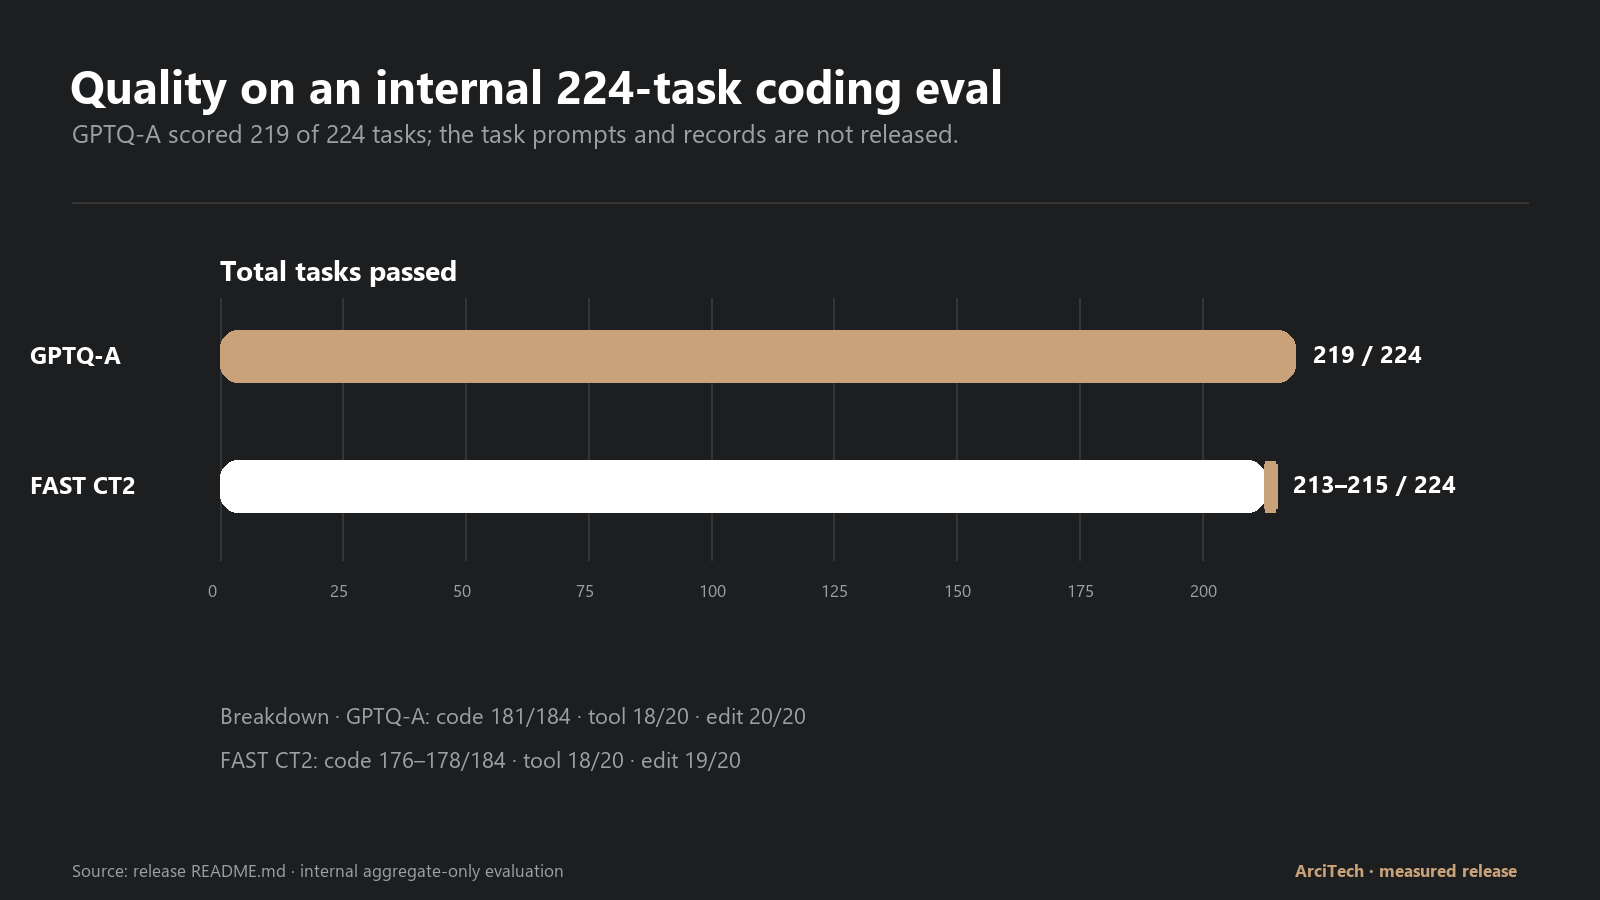
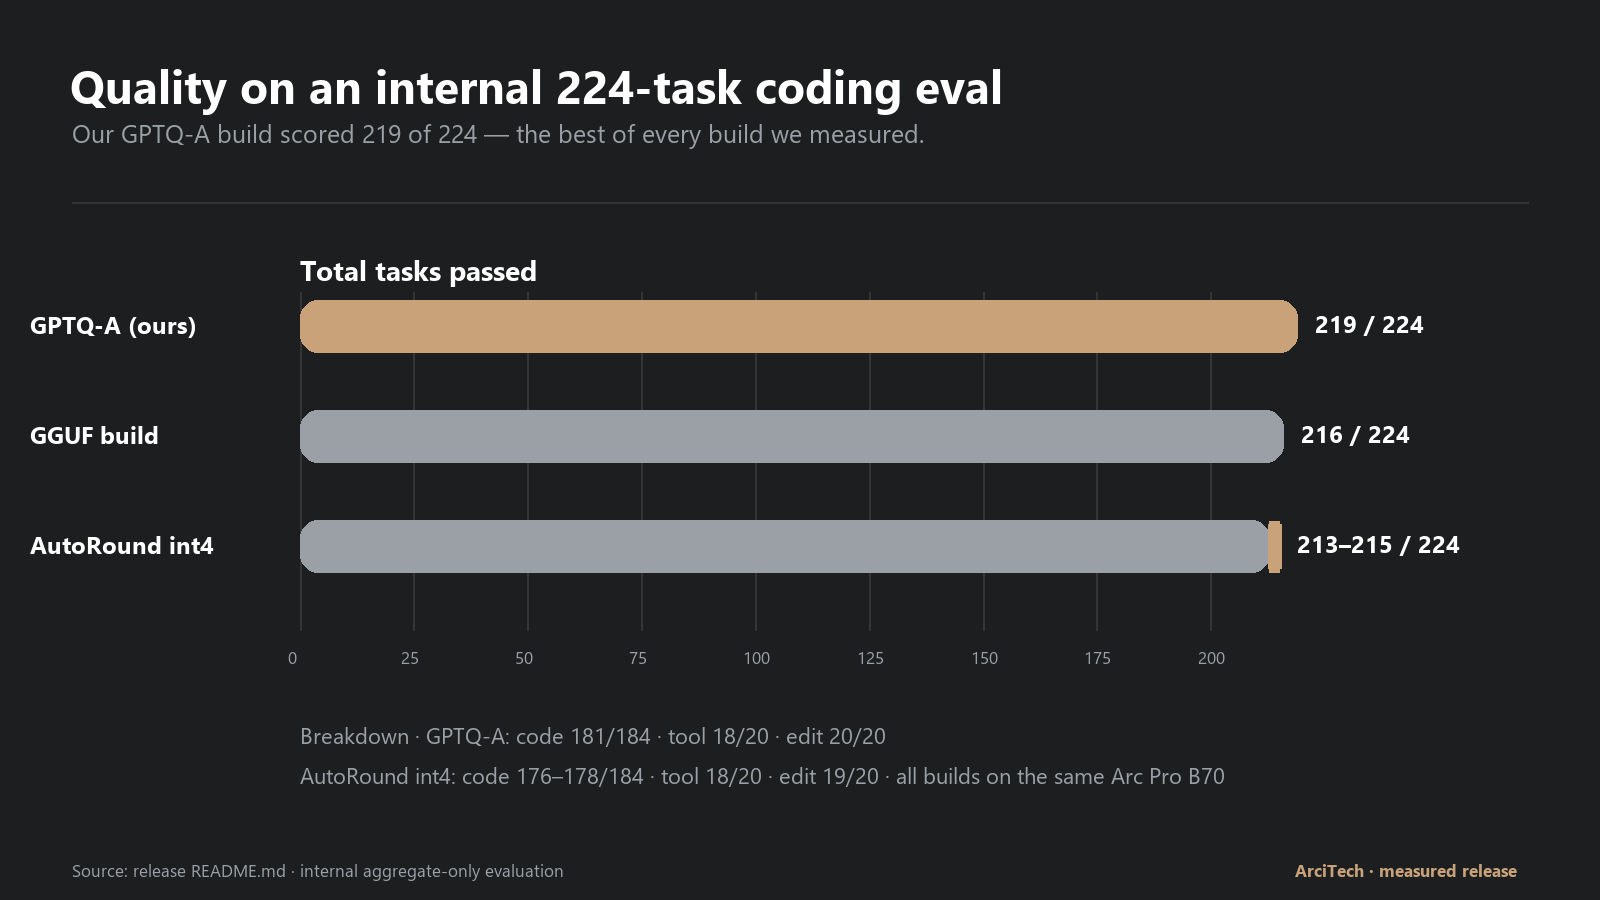
Lead with what we built: fast and best quality
The quality chart compares all three builds; hero banners lead with our results.

diff --git a/README.md b/README.md
@@ -7,22 +7,56 @@
 <picture><source media="(prefers-color-scheme: dark)" srcset="assets/arcitech-logo-white.png"><img src="assets/arcitech-logo-black.png" alt="ArciTech logo"></picture>
 <picture><source media="(prefers-color-scheme: dark)" srcset="assets/hero-dark.png"><img src="assets/hero-light.png" alt="Tiel-Coder XPU build and quantization release"></picture>
 
-This repository contains the public data, scripts, charts, and reproducibility
-notes for [Tiel-Coder 35B-A3B GPTQ W4A16](https://huggingface.co/arcitech-psp/Tiel-Coder-35B-A3B-W4A16-GPTQ-XPU-MTP).
-It is an independent experts-only GPTQ export of
-`ornith-ai/Ornith-1.5-35B-A3B`, with the official BF16 MTP block preserved and
-the Tiel Sharp chat template supplied by `peculiar-ragdoll`.
+ArciTech's Arc-native build of Tiel-Coder — fast, and the highest-quality build
+we measured. This repository holds the public data, scripts, charts, and
+reproducibility notes; the weights are on
+[Hugging Face](https://huggingface.co/arcitech-psp/Tiel-Coder-35B-A3B-W4A16-GPTQ-XPU-MTP).
 
 ## At a glance
 
-- **35B-parameter coding model** running on one 32 GB Intel Arc Pro B70.
-- **116.9 tokens/s for one user; 339.9 tokens/s shared across four** on GPTQ-A.
-- **219 of 224** on the internal agentic coding evaluation.
-- **Four 131,072-token conversations at once** in the measured configuration.
-- **93.5% routed expert logical parameters in GPTQ int4; 6.5% in BF16.**
+- **Best quality we measured:** 219 of 224 on our internal agentic coding
+  evaluation, ahead of the community GGUF build (216) and the AutoRound int4
+  build (213–215).
+- **Fast:** 116.9 tokens/s for one user; 339.9 tokens/s shared across four.
+- **Four 131,072-token conversations at once** on one 32 GB card.
+- **Better draft acceptance:** 74.3% of first speculative guesses accepted,
+  against 66.7% for the AutoRound int4 build.
+- **93.5% of the weights in int4; everything that steers the model kept in BF16.**
+
+## What we did to improve it
+
+Tiel-Coder is Ornith-1.5-35B-A3B's weights with `peculiar-ragdoll`'s Sharp
+chat template. The existing ways to run it on Intel Arc forced a trade-off:
+the community GGUF build scored well but its MoE kernel topped out at two
+concurrent chats, and the faster int4 build lost quality. We built our own:
+
+1. **Our own quantization from the original BF16 weights.** GPTQ int4 on the
+   routed experts only, with a separate activation-aware Hessian for every
+   expert, calibrated on agentic coding and tool-use conversations, one decoder
+   layer at a time with each layer's quantization error carried into the next.
+2. **Kept the sensitive parts in full precision.** Attention, linear attention,
+   shared experts, the router, norms, embeddings, output head, vision tower and
+   the draft head stay in BF16 — that is where the quality is protected.
+3. **Attached the official BF16 multi-token-prediction head** so the model
+   drafts several tokens per step, correctly laid out for the loader; its
+   guesses are accepted more often than the alternative build's.
+4. **Packed it for the native fused int4 MoE kernel** in vLLM XPU, so four users
+   share the card at full context instead of two.
+5. **Built and tuned the runtime** ([vllm-xpu-arc](https://github.com/arcitech-psp/vllm-xpu-arc)):
+   MTP on XPU, FP8 KV cache, and a configuration that fits four 131K-token
+   conversations on 32 GB.
+
+| Build on the same Arc Pro B70 | Internal eval (224 tasks) | Concurrent 128K chats | 1 user / 4 users (tok/s) |
+|---|---:|---:|---:|
+| **This release (GPTQ-A, ours)** | **219** | **4** | 116.9 / 339.9 |
+| AutoRound int4 build, repacked | 213–215 | 4 | 132.0 / 374.8 |
+| Community GGUF build (k-quant) | 216 | 2 | — (earlier campaign; not the same speed method) |
+
+The result is the best-scoring build we measured, within about 10% of the
+fastest one.
 
 Tokens per second (tokens/s) is how quickly generated text arrives. Higher is
-faster; shared total speed describes the combined output of several users.
+faster; shared total speed is the combined output of several users.
 
 <picture><source media="(prefers-color-scheme: dark)" srcset="assets/test-bench-dark.png"><img src="assets/test-bench-light.png" alt="ArciTech test bench specification card"></picture>
 
